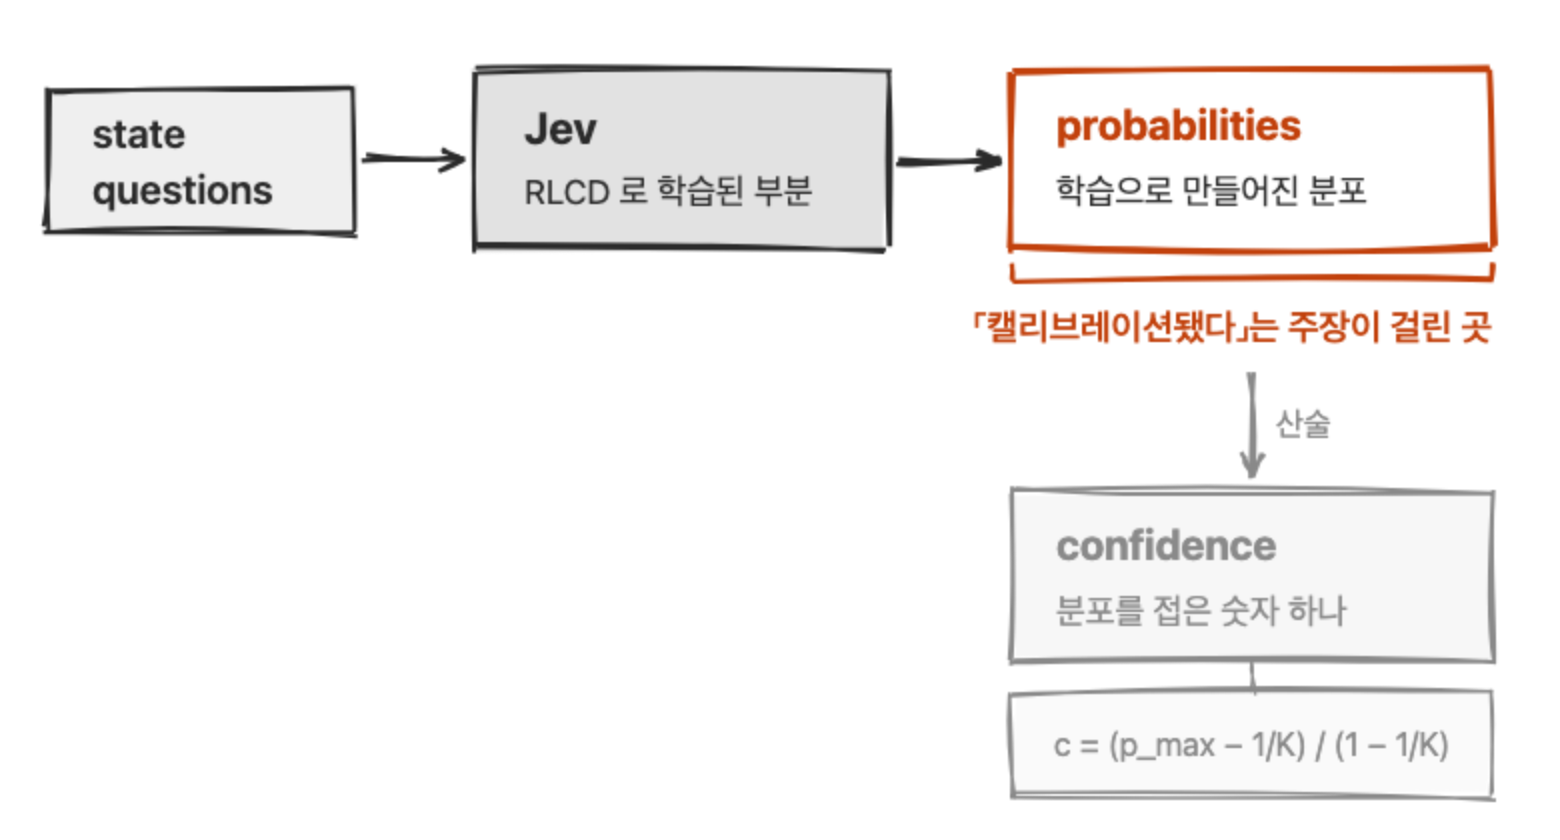
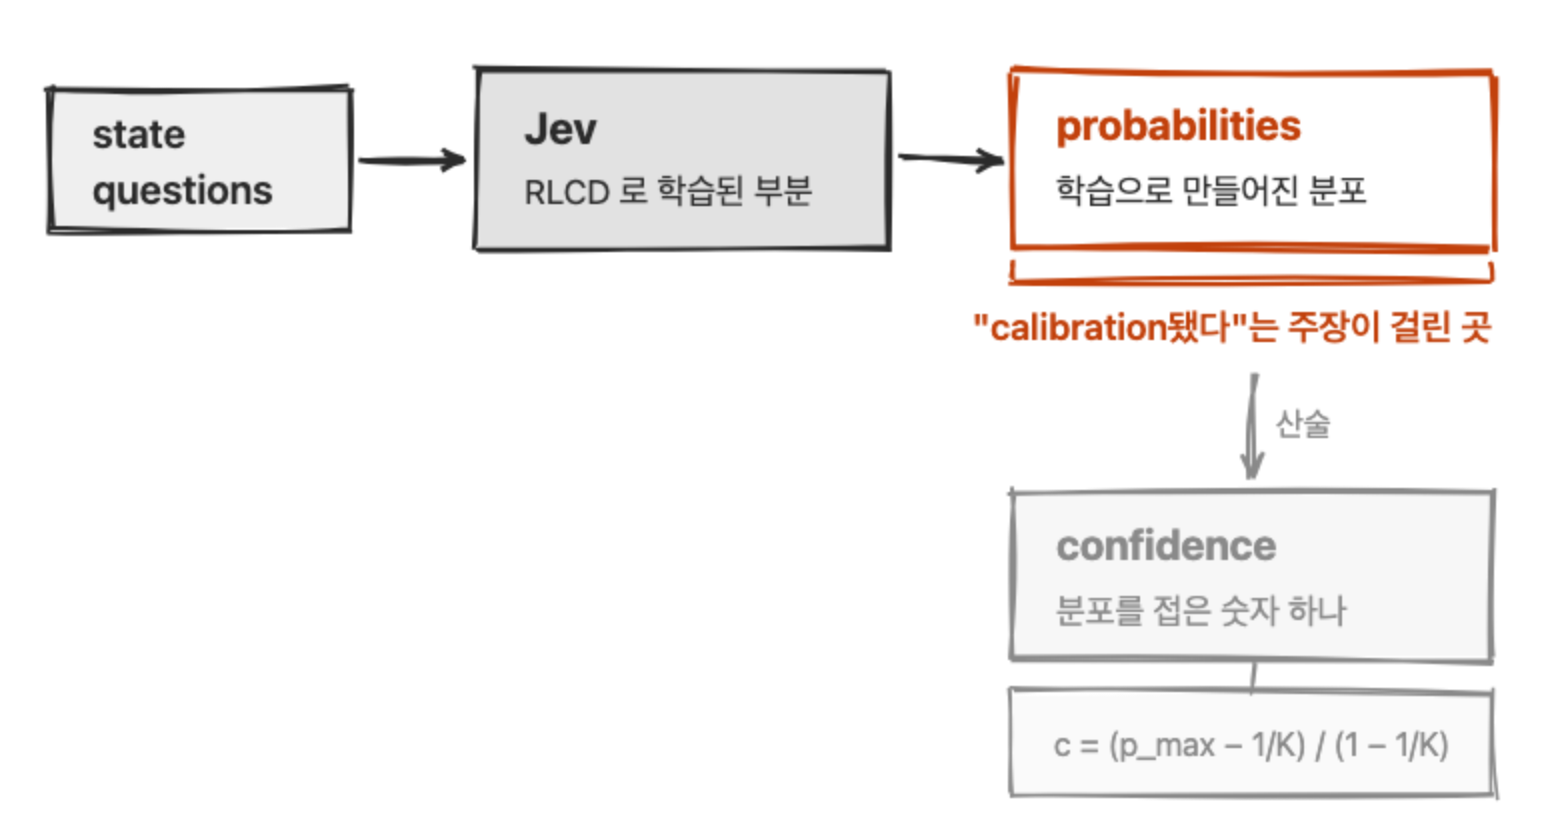
fix(content): use straight quotes in 260922 figure labels

diff --git a/content/260922/3.html b/content/260922/3.html
@@ -29,7 +29,7 @@ F('학습으로 만들어진 분포',528,102,17,ink,'');
 rc.line(506,140,746,140,{...o, stroke:hi, strokeWidth:2.2});
 rc.line(506,140,506,131,{...o, stroke:hi, strokeWidth:2.2});
 rc.line(746,140,746,131,{...o, stroke:hi, strokeWidth:2.2});
-const cap='「캘리브레이션됐다」는 주장이 걸린 곳';
+const cap='"calibration됐다"는 주장이 걸린 곳';
 F(cap, 746-W(cap,18,'600'), 170, 18, hi, '600');
 
 // 아래로
